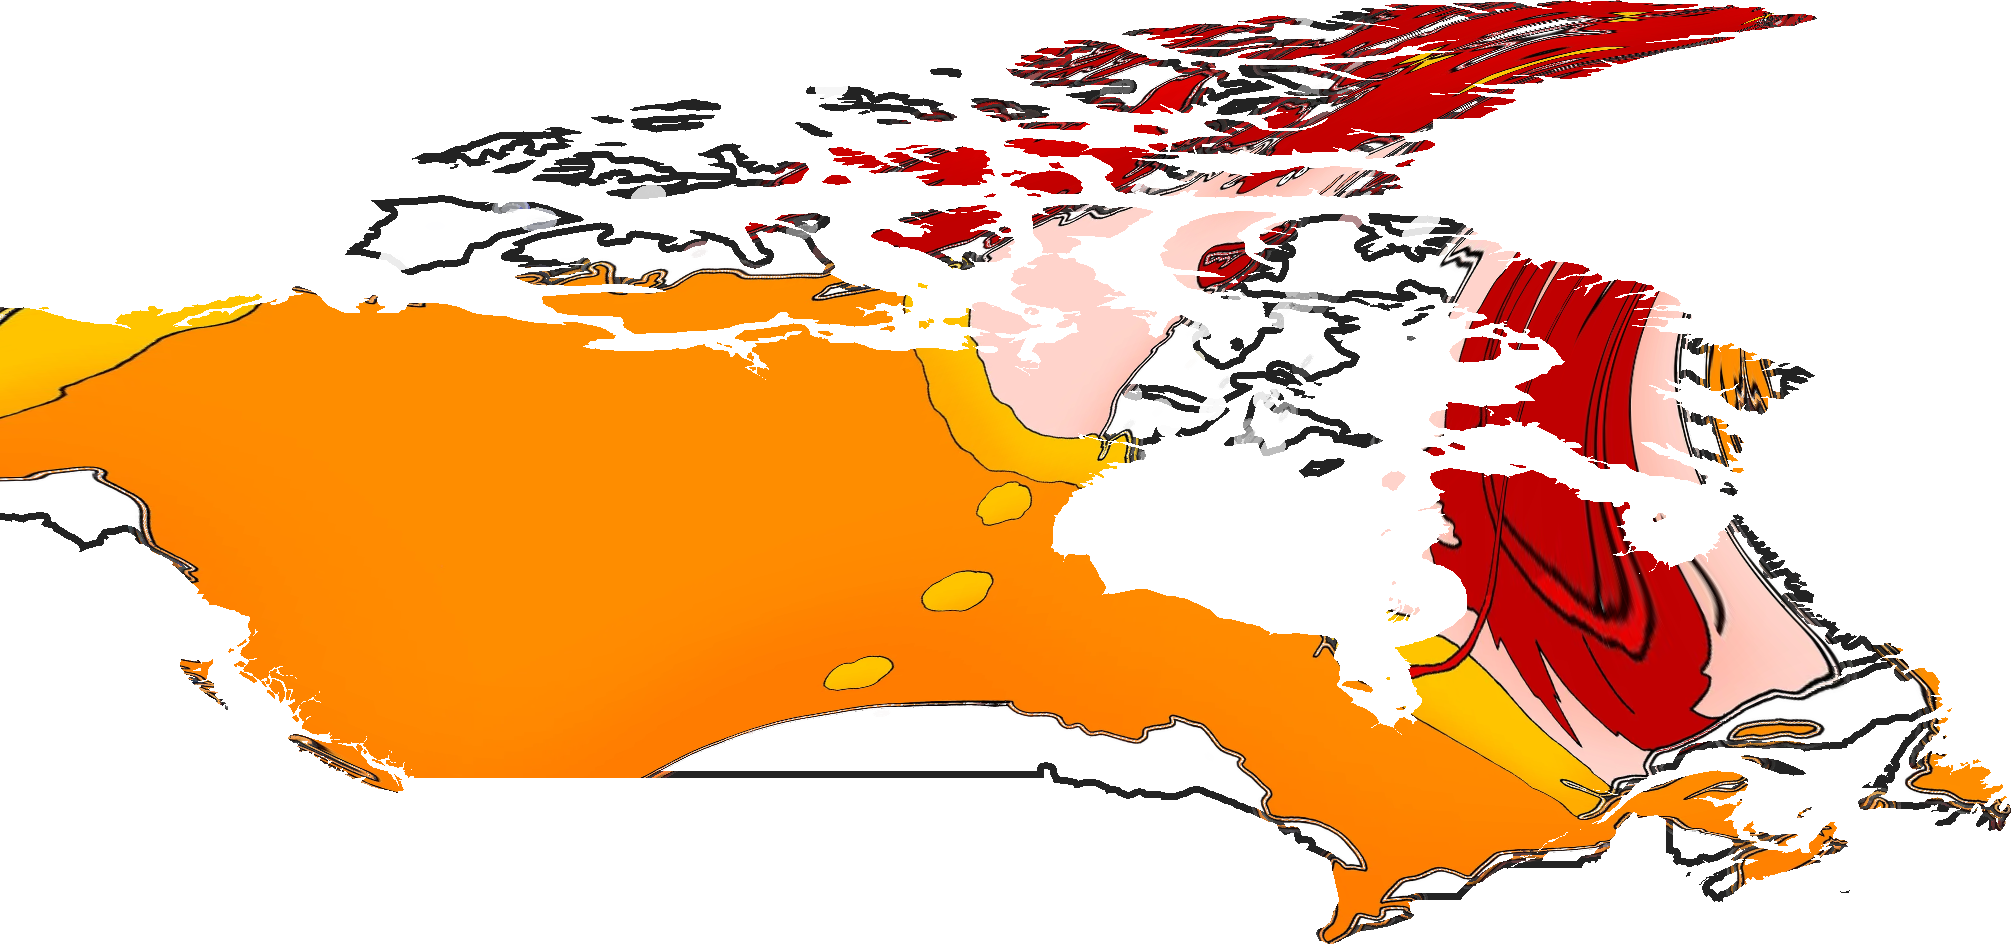
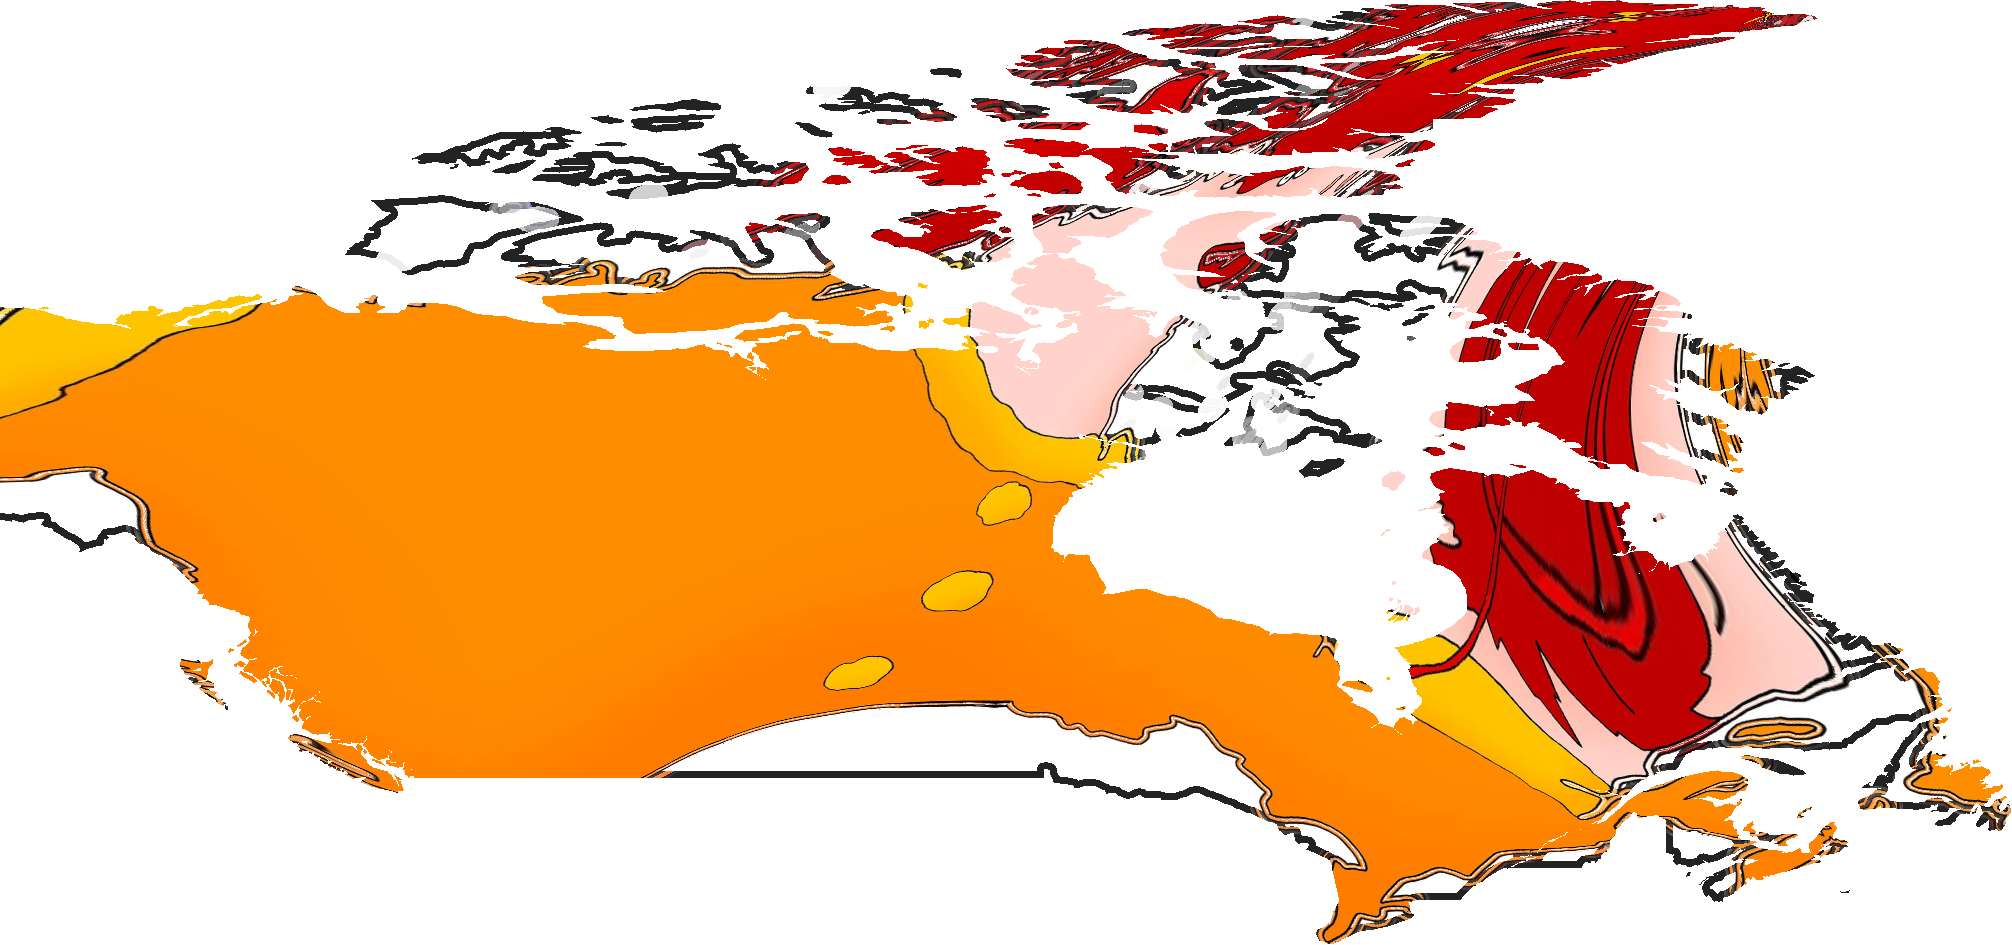
Further reduce large-country warp streaking with stronger prepad

diff --git a/tools/build_globe_global_warps.py b/tools/build_globe_global_warps.py
@@ -809,7 +809,7 @@ def render_country_with_inverse_map(
     if target_area >= 150000:
         pre_pad_radius = 4
     if target_area >= 500000:
-        pre_pad_radius = 6
+        pre_pad_radius = 8
     if pre_pad_radius > 0:
         src_for_warp = edge_pad_rgba(src_for_warp, radius=pre_pad_radius)
 
